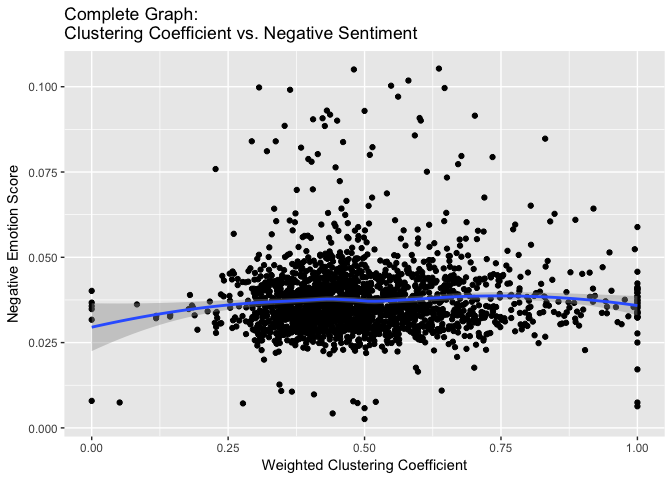
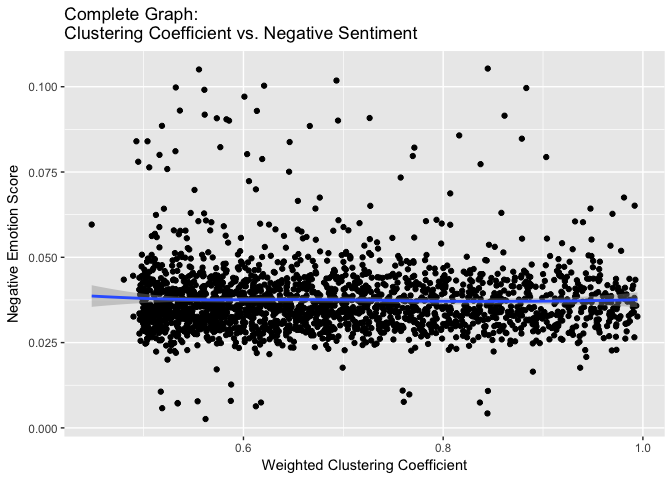
Change data read-in pipeline

diff --git a/clust_coef_analysis.md b/clust_coef_analysis.md
@@ -11,8 +11,8 @@ Complete Graph
 We can examine whether a relationship exists between the weighted clustering coefficient and negative sentiment by examining the following plot and inspecting a linear regression analysis.
 
 ``` r
-complete_top_10_df %>%
-  ggplot(mapping = aes(x = clust_coef, y = posemo)) +
+df %>%
+  ggplot(mapping = aes(x = complete_clust_coef, y = posemo)) +
   geom_point() +
   geom_smooth(method = "loess") +
   labs(x = "Weighted Clustering Coefficient", 
@@ -20,29 +20,25 @@ complete_top_10_df %>%
        title = "Complete Graph: \nClustering Coefficient vs. Negative Sentiment") 
 ```
 
-    ## Warning: Removed 7 rows containing non-finite values (stat_smooth).
-
-    ## Warning: Removed 7 rows containing missing values (geom_point).
-
 ![](clust_coef_analysis_files/figure-markdown_github/unnamed-chunk-2-1.png)
 
 ``` r
-lm.fit <- lm(negemo ~ clust_coef, data = complete_df)
+lm.fit <- lm(negemo ~ complete_clust_coef, data = df)
 summary(lm.fit)
 ```
 
     ## 
     ## Call:
-    ## lm(formula = negemo ~ clust_coef, data = complete_df)
+    ## lm(formula = negemo ~ complete_clust_coef, data = df)
     ## 
     ## Residuals:
     ##       Min        1Q    Median        3Q       Max 
     ## -0.015161 -0.004759 -0.000667  0.003979  0.110055 
     ## 
     ## Coefficients:
-    ##               Estimate Std. Error t value Pr(>|t|)    
-    ## (Intercept)  0.0193548  0.0007355  26.316   <2e-16 ***
-    ## clust_coef  -0.0001874  0.0010487  -0.179    0.858    
+    ##                       Estimate Std. Error t value Pr(>|t|)    
+    ## (Intercept)          0.0193548  0.0007355  26.316   <2e-16 ***
+    ## complete_clust_coef -0.0001874  0.0010487  -0.179    0.858    
     ## ---
     ## Signif. codes:  0 '***' 0.001 '**' 0.01 '*' 0.05 '.' 0.1 ' ' 1
     ## 
@@ -58,8 +54,8 @@ Complete Graph Filtered to Top 10% of Edge Weights
 We can examine whether a relationship exists between the weighted clustering coefficient and negative sentiment by examining the following plot and inspecting a linear regression analysis.
 
 ``` r
-complete_top_10_df %>%
-  ggplot(mapping = aes(x = clust_coef, y = posemo)) +
+df %>%
+  ggplot(mapping = aes(x = complete_top10_clust_coef, y = posemo)) +
   geom_point() +
   geom_smooth(method = "loess") +
   labs(x = "Weighted Clustering Coefficient", 
@@ -74,22 +70,22 @@ complete_top_10_df %>%
 ![](clust_coef_analysis_files/figure-markdown_github/unnamed-chunk-4-1.png)
 
 ``` r
-lm.fit <- lm(negemo ~ clust_coef, data = complete_top_10_df)
+lm.fit <- lm(negemo ~ complete_top10_clust_coef, data = df)
 summary(lm.fit)
 ```
 
     ## 
     ## Call:
-    ## lm(formula = negemo ~ clust_coef, data = complete_top_10_df)
+    ## lm(formula = negemo ~ complete_top10_clust_coef, data = df)
     ## 
     ## Residuals:
     ##       Min        1Q    Median        3Q       Max 
     ## -0.015462 -0.004725 -0.000644  0.003963  0.109668 
     ## 
     ## Coefficients:
-    ##               Estimate Std. Error t value Pr(>|t|)    
-    ## (Intercept)  0.0202158  0.0004896  41.287   <2e-16 ***
-    ## clust_coef  -0.0019582  0.0009336  -2.097   0.0361 *  
+    ##                             Estimate Std. Error t value Pr(>|t|)    
+    ## (Intercept)                0.0202158  0.0004896  41.287   <2e-16 ***
+    ## complete_top10_clust_coef -0.0019582  0.0009336  -2.097   0.0361 *  
     ## ---
     ## Signif. codes:  0 '***' 0.001 '**' 0.01 '*' 0.05 '.' 0.1 ' ' 1
     ## 
